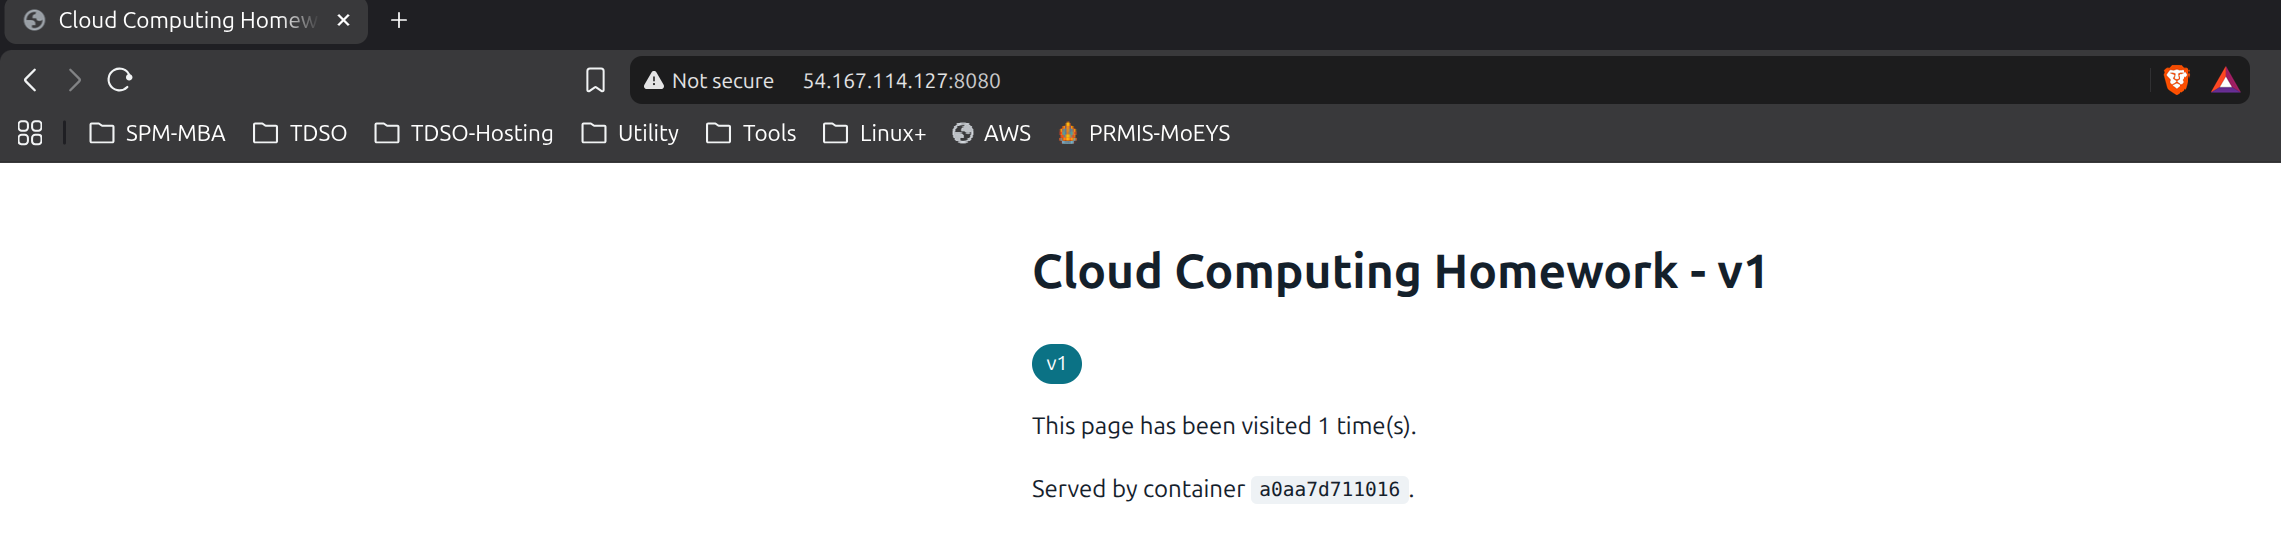
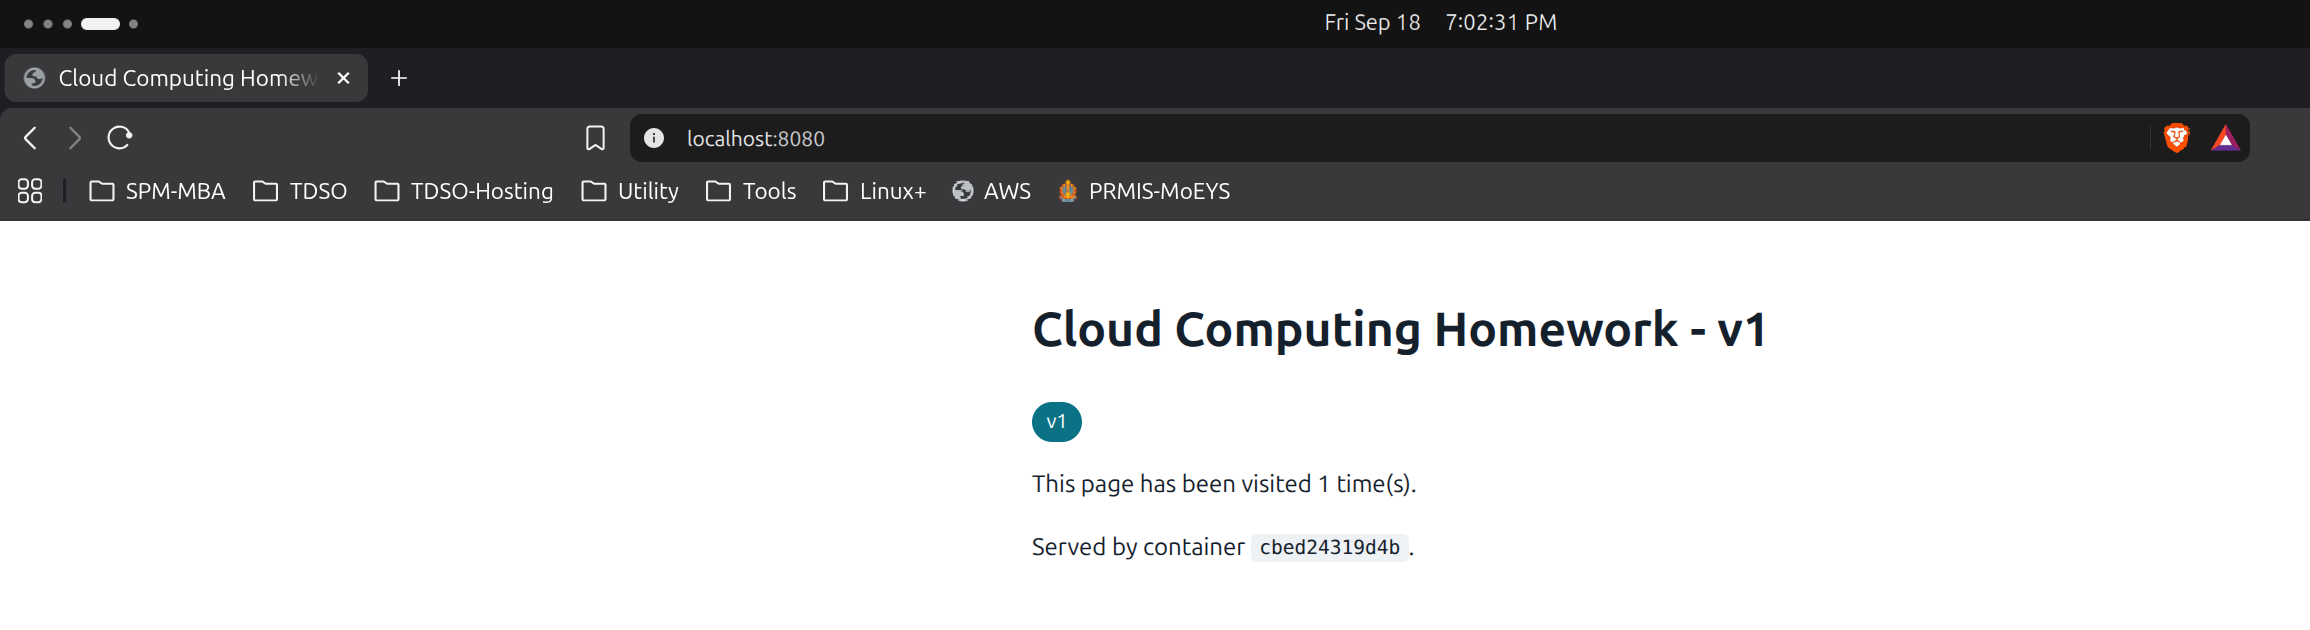
Change new path 2

diff --git a/README.md b/README.md
@@ -48,7 +48,6 @@ docker compose ps
 
 Open <http://localhost:8080>. Refresh a few times — the counter increases.
  - screenshots/path-1/path1-browser-port-8080.png
- - screenshots/path-1/part1-aws-firewall-rule.png
 
 **Proving the named volume persists data:**
 ```bash
@@ -77,7 +76,7 @@ docker stack services ccstack
 docker service ls
 docker service ps ccstack_web
 ```
-- screenshots/path-2/path-2-run-docker-swarm-1replica.png
+- screenshots/path-2/path-2-first-run-docker-swarm-1replica.png
 
 The application is still reachable at <http://localhost:8080>. 
 - screenshots/path-2/path-2-first-browser-stack.png
@@ -88,14 +87,14 @@ docker service scale ccstack_web=3
 docker service ps ccstack_web
 docker stack services ccstack             # 3 tasks, all "Running"
 ```
-- screenshots/path-2/path-2-scal-to 3-replicas.png
+- screenshots/path-2/path-2-scal-3-and-delete1con.png
 
 **Self-healing:** kill one task's container directly and watch Swarm replace it
 with no further command from me:
 
 ```bash
 docker ps --filter name=ccstack_web       # pick one container ID
-docker rm -f 870f9c4a6dc6
+docker rm -f 750e360c39bb
 docker service ps ccstack_web             # killed task = "Failed"/"Shutdown",
                                           # a new task is already "Running"
 ```
